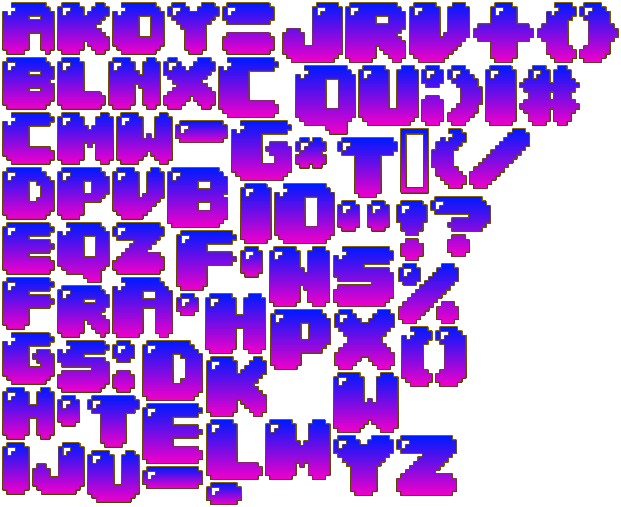
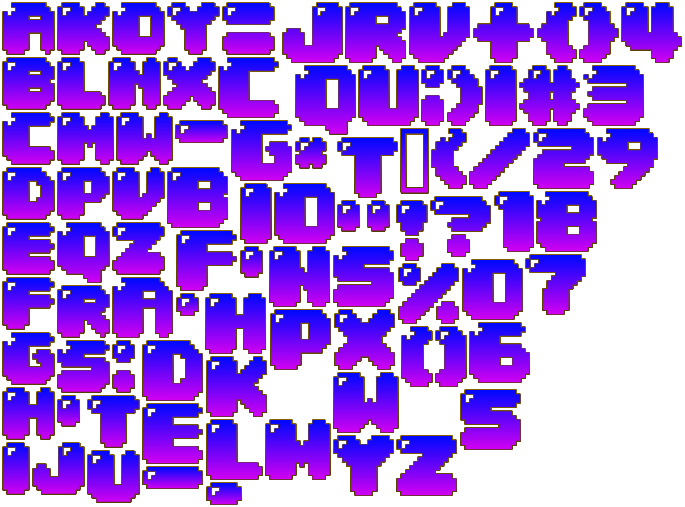
added numbers to font and msg with jet is low

diff --git a/js/extras.js b/js/extras.js
@@ -31,6 +31,10 @@ function jetpackActive(){
   if(player.jetpackActive && player.jet > 0){
     player.body.velocity.y = -200;
     player.jet-=.1;
+    var power = Math.round(player.jet);
+    if(power == 20 || power == 10||power == 5||power == 0){
+      msg("Jetpack\nPower " + power + "%");
+    }
   }
 }
 
